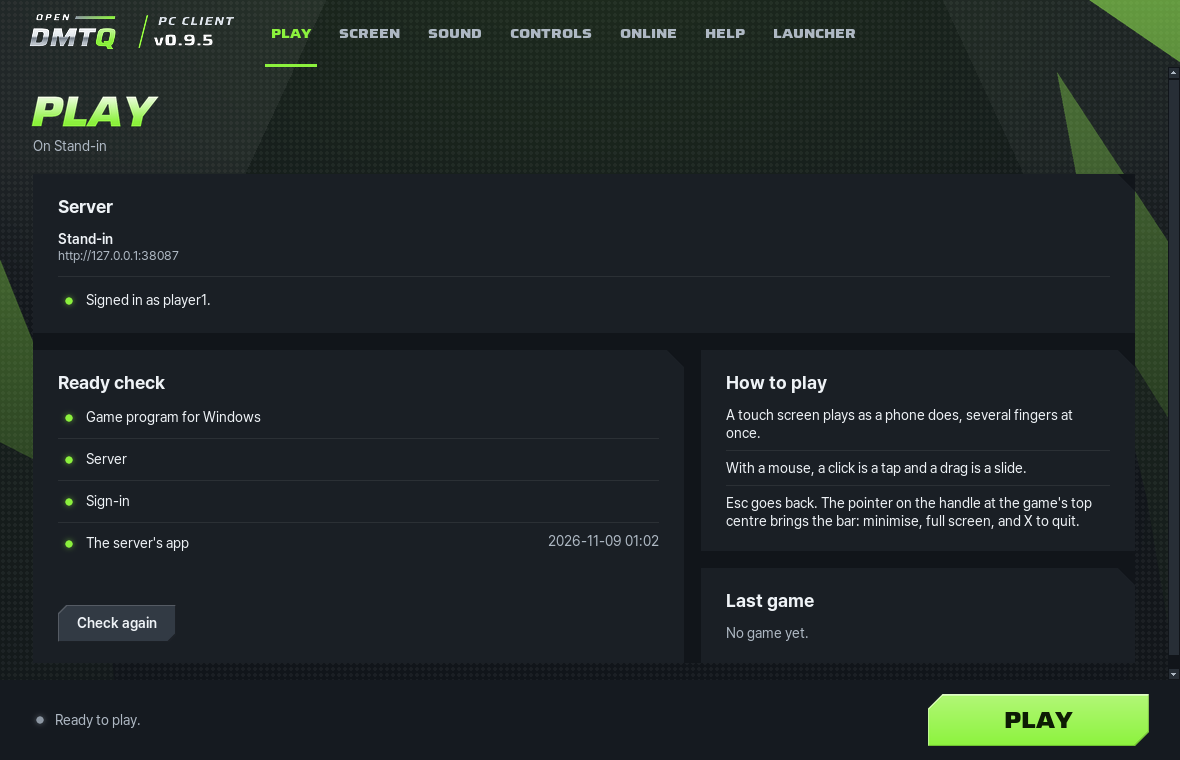
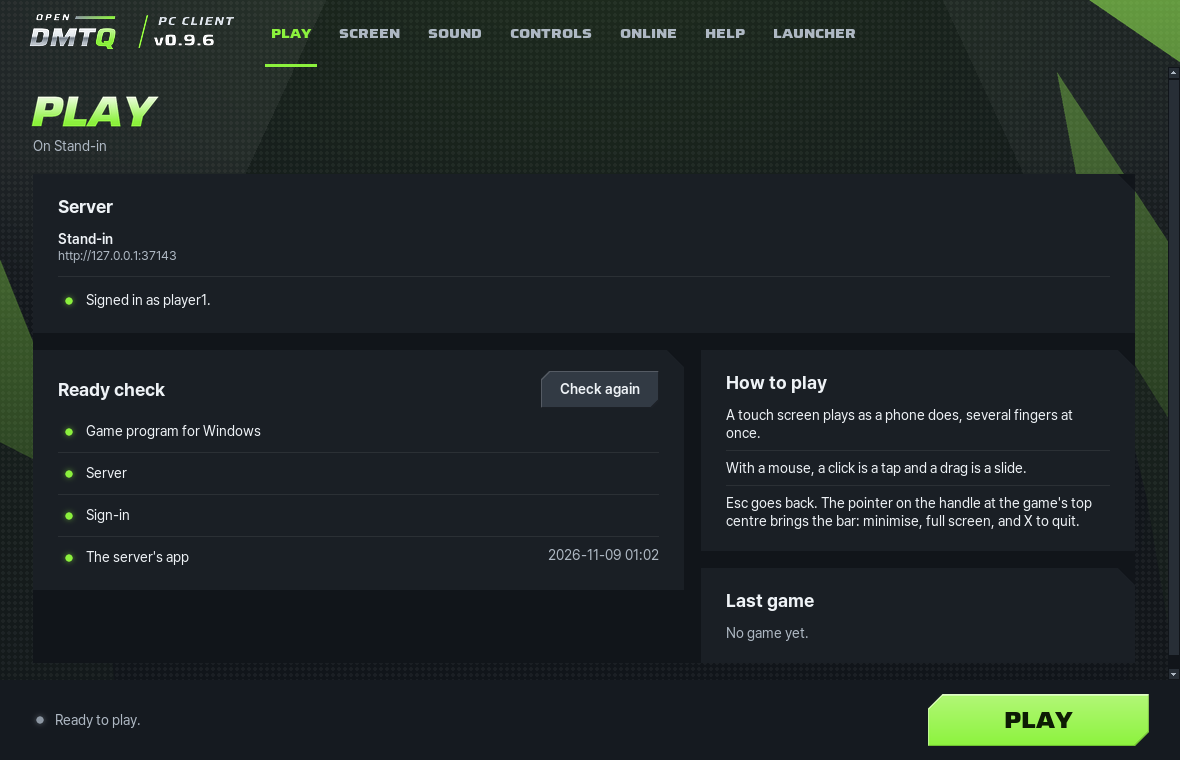
Release 0.9.6

diff --git a/CHANGELOG.md b/CHANGELOG.md
@@ -6,6 +6,8 @@ one of fixes, changes and smaller additions raises the patch number. Each releas
 
 ## [Unreleased]
 
+## [0.9.6] - 2026-11-13
+
 ### Changed
 
 - The player for Windows: typing in the game's text fields, such as a new player's name, replaces the text they open
@@ -713,7 +715,8 @@ one of fixes, changes and smaller additions raises the patch number. Each releas
 - Four ways to run it: the Windows bundle, one command on Linux or macOS, Docker Compose, and a Helm chart for
   Kubernetes.
 
-[Unreleased]: https://github.com/kanggu12/openDMTQ/compare/v0.9.5...HEAD
+[Unreleased]: https://github.com/kanggu12/openDMTQ/compare/v0.9.6...HEAD
+[0.9.6]: https://github.com/kanggu12/openDMTQ/compare/v0.9.5...v0.9.6
 [0.9.5]: https://github.com/kanggu12/openDMTQ/compare/v0.9.4...v0.9.5
 [0.9.4]: https://github.com/kanggu12/openDMTQ/compare/v0.9.3...v0.9.4
 [0.9.3]: https://github.com/kanggu12/openDMTQ/compare/v0.9.2...v0.9.3
